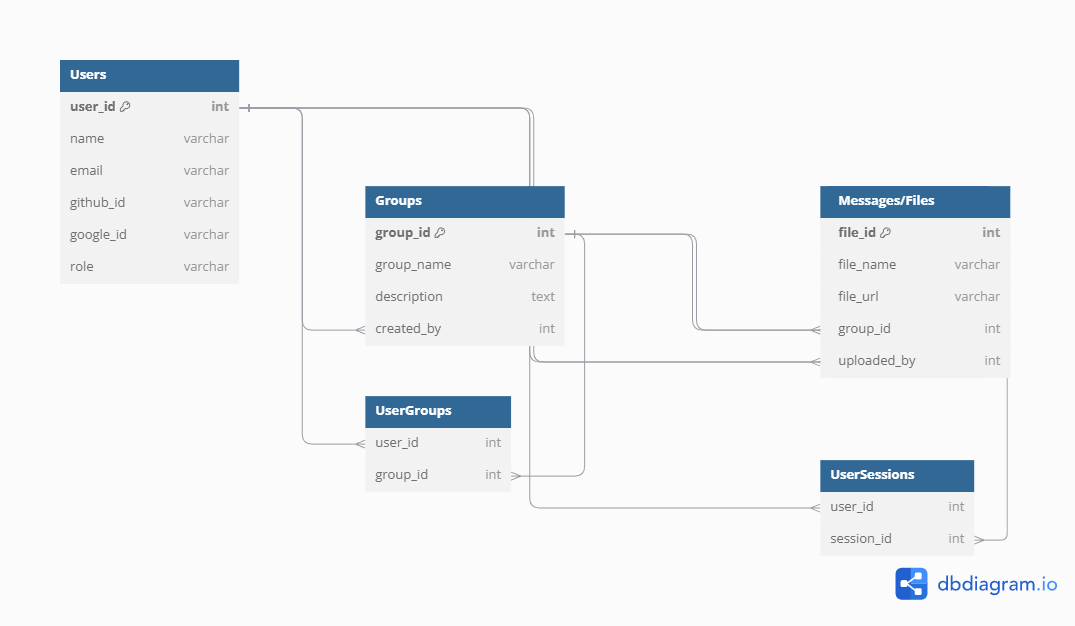
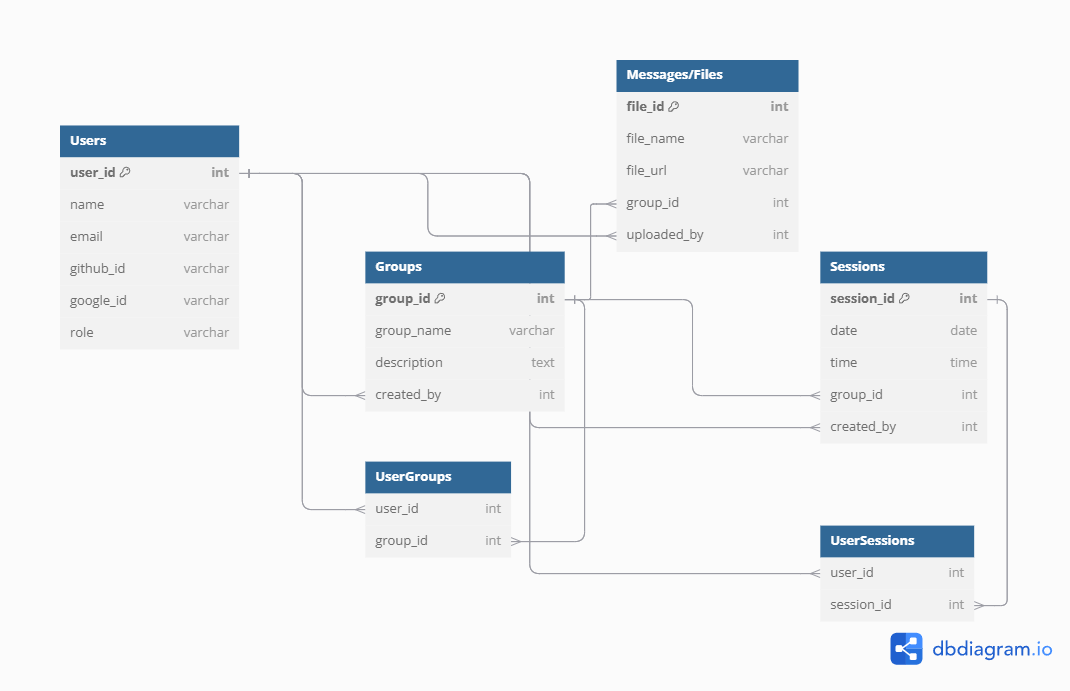
Added the ERD tables

diff --git a/planning/entity_relationship_diagram.md b/planning/entity_relationship_diagram.md
@@ -2,16 +2,68 @@
 
 Reference the Creating an Entity Relationship Diagram final project guide in the course portal for more information about how to complete this deliverable.
 
-## Create the List of Tables
+## List of Tables
 
-[👉🏾👉🏾👉🏾 List each table in your diagram]
+1. **Users**: Stores user information and login details.
+2. **Groups**: Represents study groups created and joined by users.
+3. **Sessions**: Scheduled meetings or study sessions associated with a specific group.
+4. **Messages/Files**: Contains files uploaded to groups, with an option to include messages or shared documents.
+5. **UserGroups**: Tracks user membership in different groups.
+6. **UserSessions**: Tracks user participation in specific sessions.
 
 ## Add the Entity Relationship Diagram
 
 <img src='./ERD.png' title='ERD Diagram' width='' alt='ERD Diagram' />
 
-| Column Name | Type | Description |
-|-------------|------|-------------|
-| id | integer | primary key |
-| name | text | name of the shoe model |
-| ... | ... | ... |
+## Column Descriptions
+
+Below is a detailed table of each column and its role in the schema:
+
+### Users Table
+| Column Name | Type    | Description                     |
+|-------------|---------|---------------------------------|
+| user_id     | integer | Primary key; unique user ID     |
+| name        | varchar | User's full name                |
+| email       | varchar | User's email, unique identifier |
+| github_id   | varchar | GitHub account identifier       |
+| google_id   | varchar | Google account identifier       |
+| role        | varchar | Role of the user in the system  |
+
+### Groups Table
+| Column Name  | Type    | Description                         |
+|--------------|---------|-------------------------------------|
+| group_id     | integer | Primary key; unique group ID       |
+| group_name   | varchar | Name of the study group            |
+| description  | text    | Description of the study group     |
+| created_by   | integer | Foreign key referencing `Users`    |
+
+### Sessions Table
+| Column Name | Type    | Description                              |
+|-------------|---------|------------------------------------------|
+| session_id  | integer | Primary key; unique session ID          |
+| date        | date    | Date for the scheduled session          |
+| time        | time    | Time for the scheduled session          |
+| group_id    | integer | Foreign key referencing `Groups`        |
+| created_by  | integer | Foreign key referencing `Users`         |
+
+### Messages/Files Table
+| Column Name | Type    | Description                              |
+|-------------|---------|------------------------------------------|
+| file_id     | integer | Primary key; unique file ID             |
+| file_name   | varchar | Name of the uploaded file               |
+| file_url    | varchar | URL link to the file storage location   |
+| group_id    | integer | Foreign key referencing `Groups`        |
+| uploaded_by | integer | Foreign key referencing `Users`         |
+
+### UserGroups Table
+| Column Name | Type    | Description                               |
+|-------------|---------|-------------------------------------------|
+| user_id     | integer | Foreign key referencing `Users`           |
+| group_id    | integer | Foreign key referencing `Groups`          |
+
+### UserSessions Table
+| Column Name | Type    | Description                               |
+|-------------|---------|-------------------------------------------|
+| user_id     | integer | Foreign key referencing `Users`           |
+| session_id  | integer | Foreign key referencing `Sessions`        |
+

diff --git a/README.md b/README.md
@@ -28,7 +28,7 @@ PicoCSS (for styling)
 Backend:
 Node.js
 Express.js
-MongoDB (Database)
+PostGres (Database)
 Cloudinary (for file uploads)
 
 ## Features
